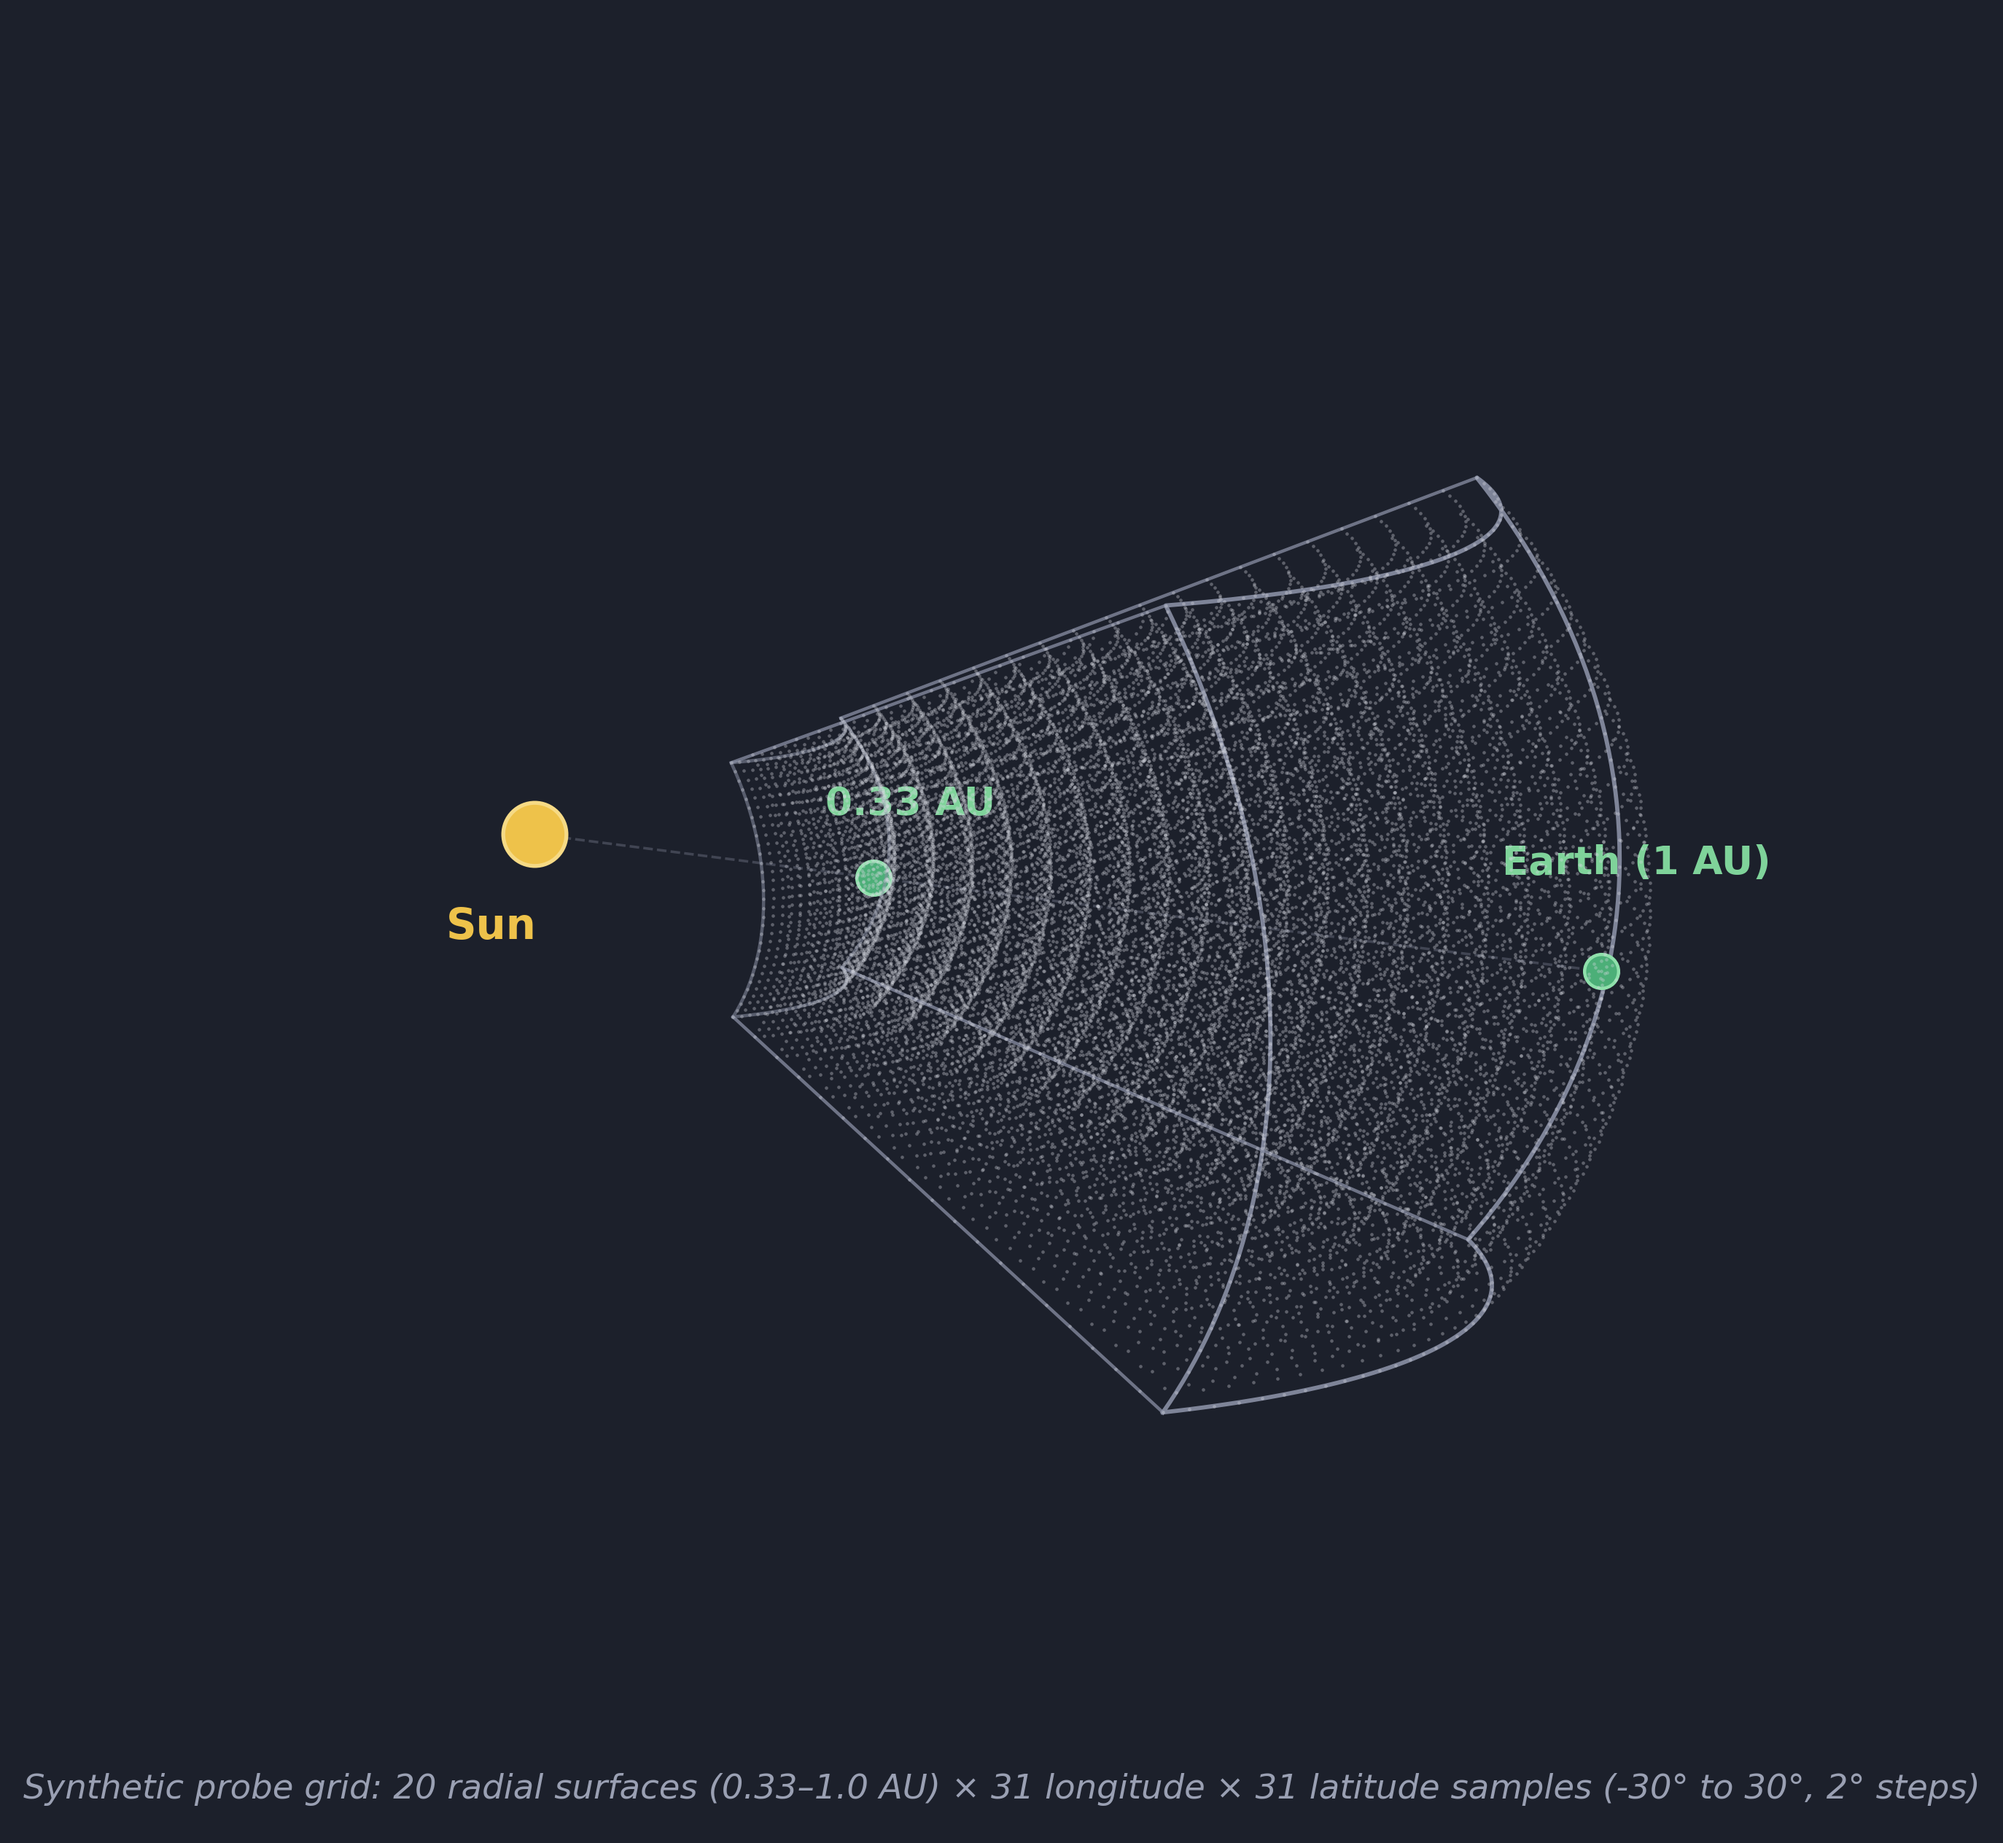
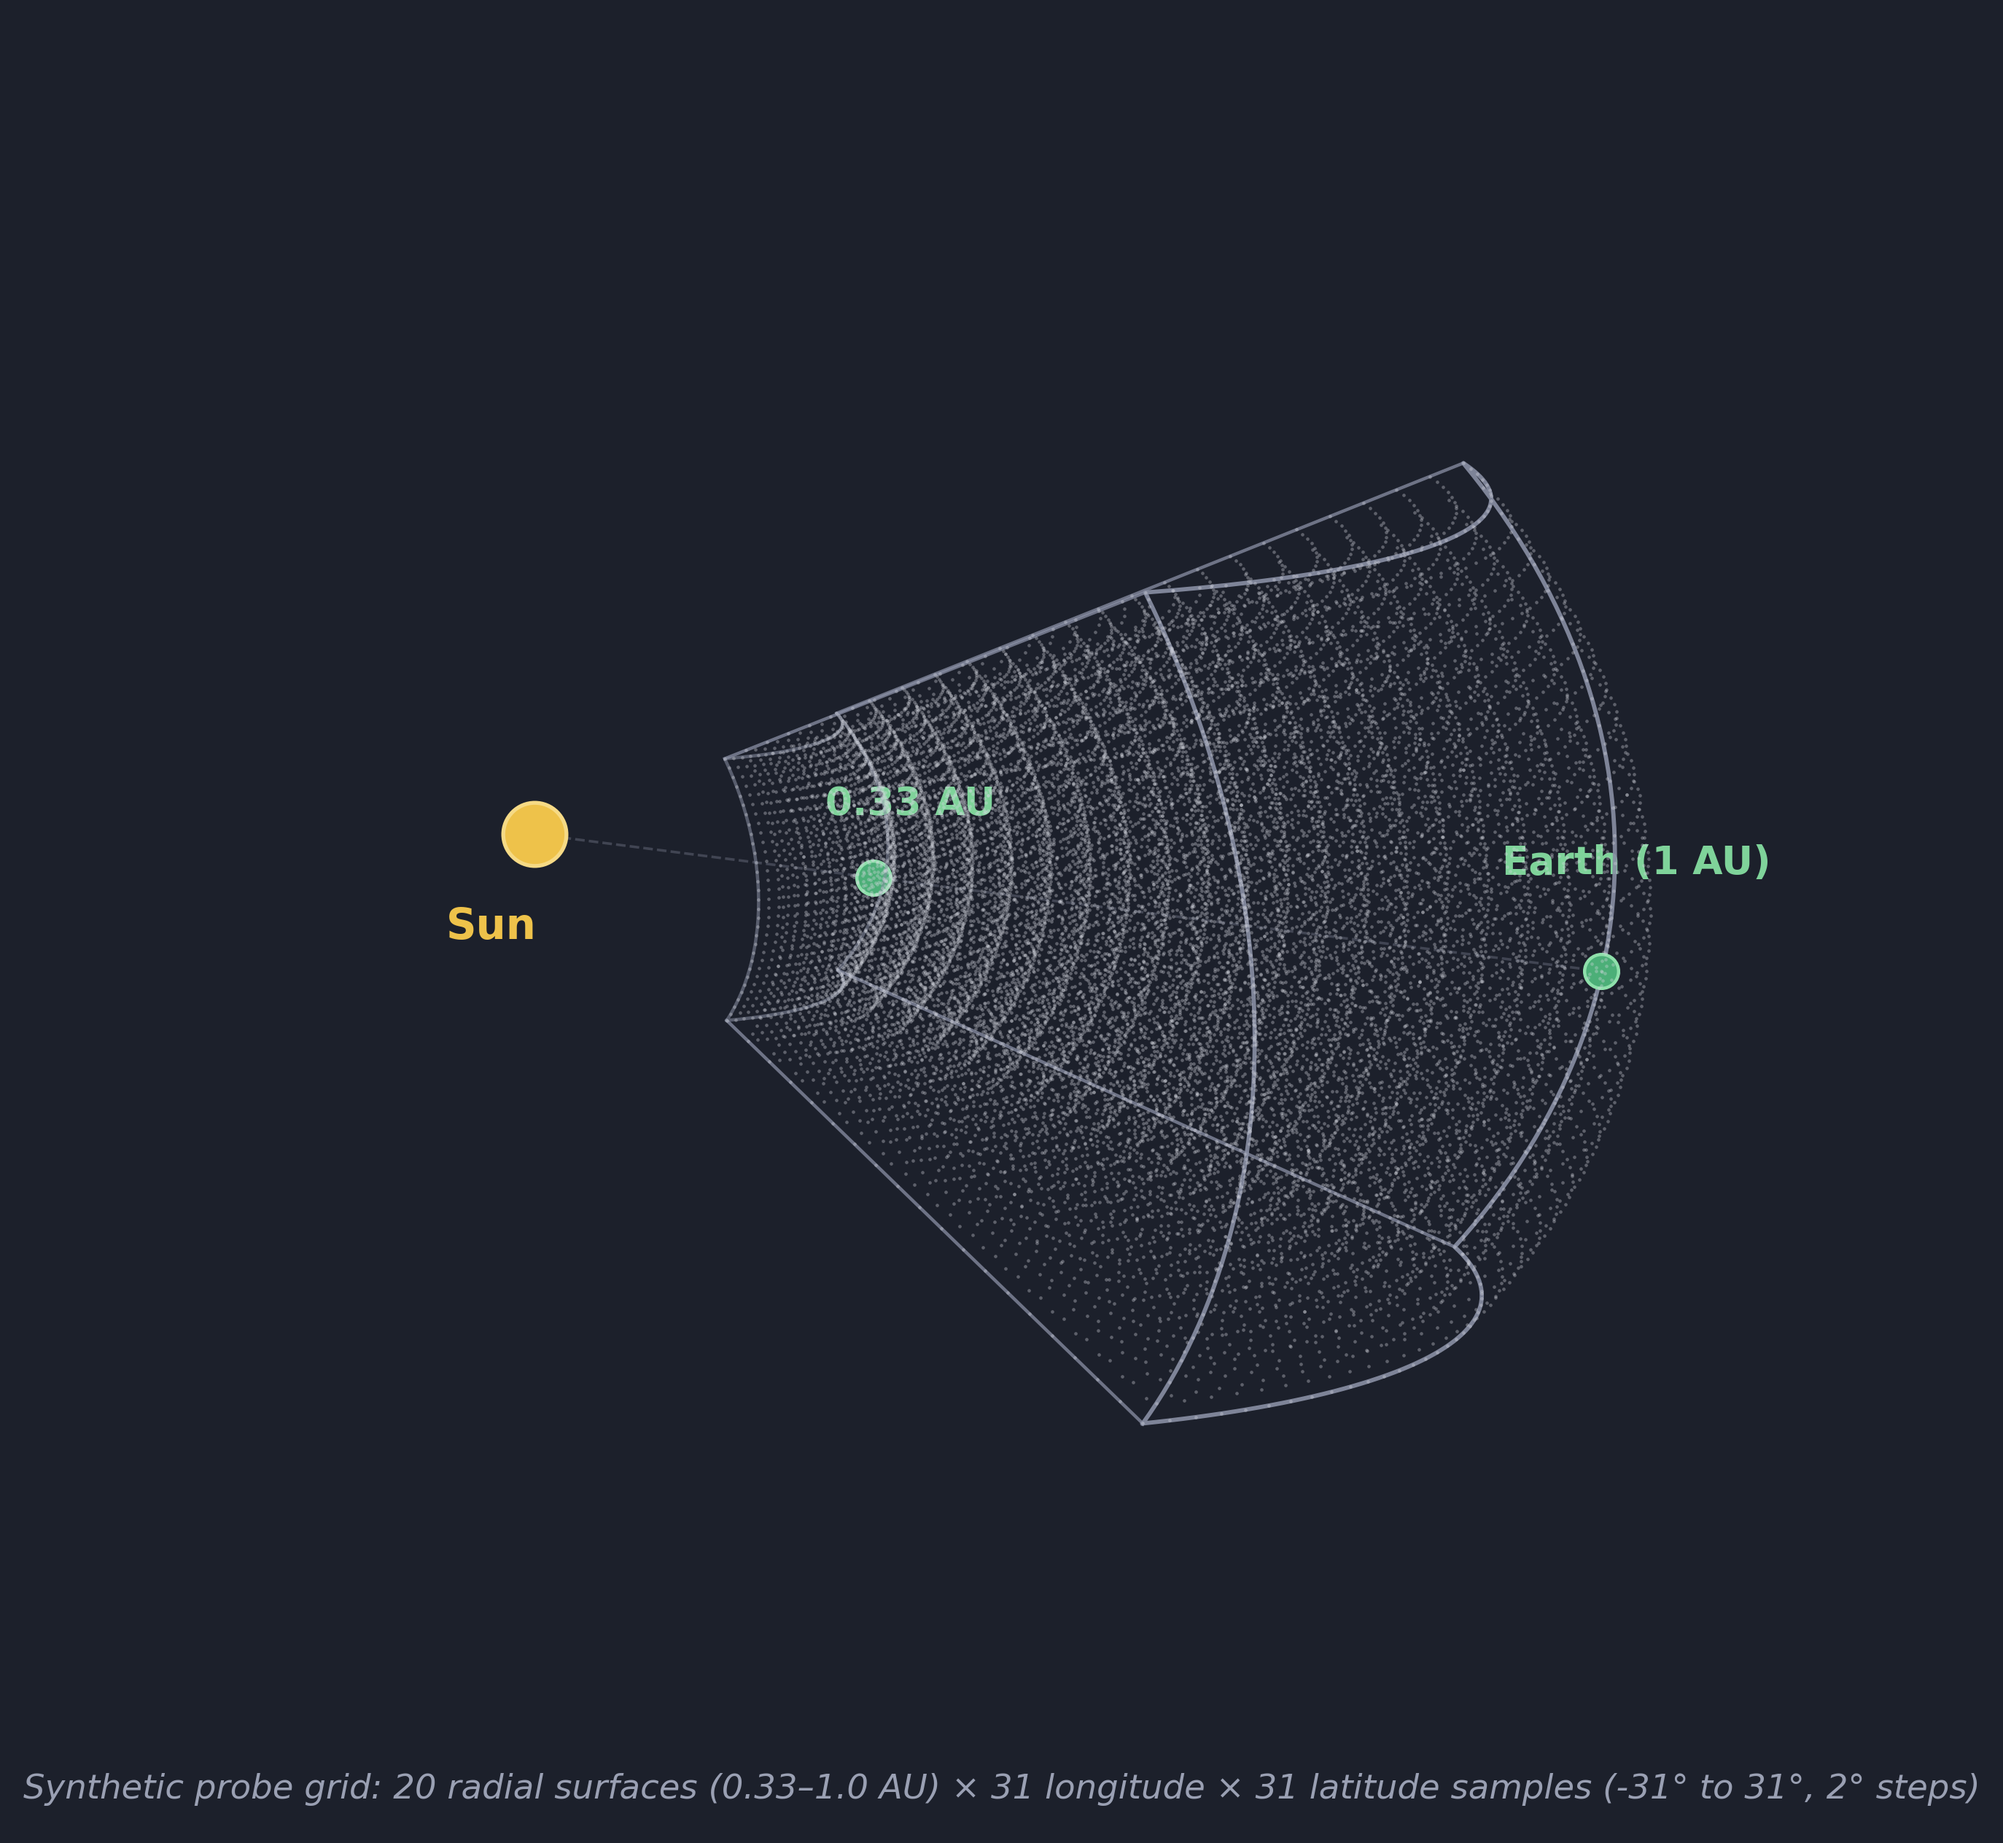
Commiting changes on Oct 12, 2026

Changed region(s): [[0.3404, 0.25, 0.8355, 0.7812]]

diff --git a/scripts/simulation_post_processing/B_predictions/trajectories_figure_Earth.py b/scripts/simulation_post_processing/B_predictions/trajectories_figure_Earth.py
@@ -11,6 +11,7 @@ import os
 import numpy as np
 import matplotlib.pyplot as plt
 from mpl_toolkits.mplot3d import Axes3D  # noqa: F401 (registers 3d projection)
+import sys
 
 # ---------------------------------------------------------------------------
 # Geometry parameters
@@ -18,8 +19,9 @@ from mpl_toolkits.mplot3d import Axes3D  # noqa: F401 (registers 3d projection)
 r_min, r_max = 0.33, 1.0     # radial extent [AU]
 n_r = 20                     # number of radial "surfaces" (shells)
 
-n_ang = 31                   # number of samples per angular axis
-ang_min, ang_max = -30, 30    # longitude/latitude extent [deg], 2-deg steps
+ang_min, ang_max = -31, 31    # longitude/latitude extent [deg], 
+steps = 2
+n_ang = 2 * (ang_max // steps) + 1                  # number of samples per angular axis
 
 r_vals = np.linspace(r_min, r_max, n_r)
 lon_vals = np.linspace(ang_min, ang_max, n_ang)
@@ -127,7 +129,7 @@ fig.text(
     0.5, 0.03,
     f"Synthetic probe grid: {n_r} radial surfaces ({r_min}\u2013{r_max} AU) "
     f"\u00d7 {n_ang} longitude \u00d7 {n_ang} latitude samples "
-    f"({ang_min}\u00b0 to {ang_max}\u00b0, 2\u00b0 steps)",
+    f"({ang_min}\u00b0 to {ang_max}\u00b0, {steps}\u00b0 steps)",
     color=TEXT_MUTED, fontsize=10.5, ha='center', style='italic'
 )
 
